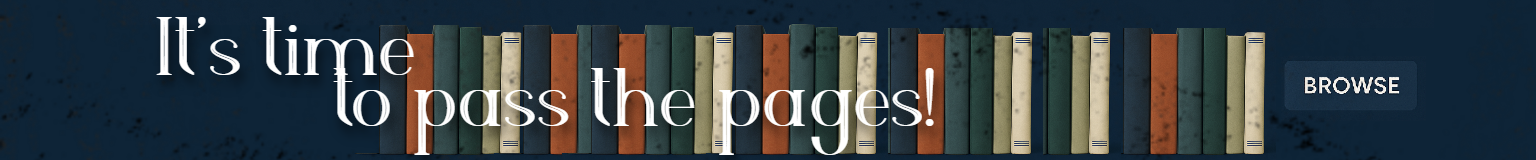
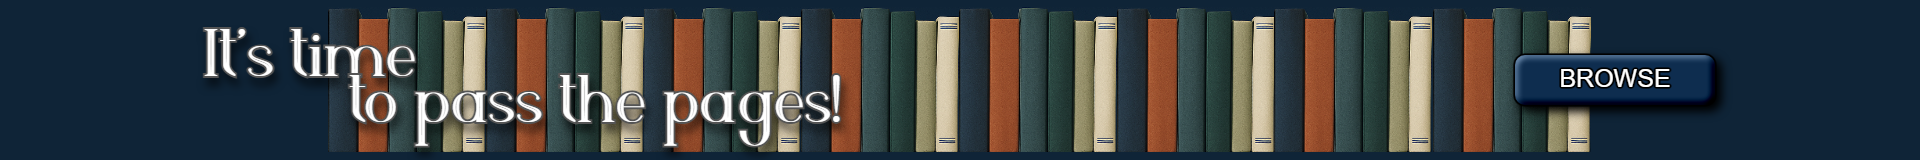
last

diff --git a/pass-the-pages-backend/server.js b/pass-the-pages-backend/server.js
@@ -107,10 +107,10 @@ app.get('/profile', verifyToken, async (req, res) => {
 // Book listing route (for authenticated users)
 app.post('/books', async (req, res) => {
     try {
-        const { title, author, course_relevance, condition, description } = req.body;
+        const { title, author, subject, condition, description } = req.body;
         const newBook = await pool.query(
-            "INSERT INTO books (title, author, course_relevance, condition, description) VALUES ($1, $2, $3, $4, $5) RETURNING *",
-            [title, author, course_relevance, condition, description]
+            "INSERT INTO books (title, author, subject, condition, description) VALUES ($1, $2, $3, $4, $5) RETURNING *",
+            [title, author, subject, condition, description]
         );
 
         // Send a success response with the added book details

diff --git a/pass-the-pages-frontend/index.html b/pass-the-pages-frontend/index.html
@@ -14,9 +14,10 @@
   <!-- Navbar Container (Loaded Dynamically) -->
   <div id="navbar-container"></div>
 
+  <div style="height: 10px; background: linear-gradient(to top, rgb(14, 45, 79),#f0f0f0);"></div>
 
   <a href="browse.html">
-    <img src="img/index_img.png" alt="browse" style="max-width:100%; margin-top: 7px;" >
+    <img src="img/index_img.png" alt="browse" style="max-width:100%; margin-top: 5px;" >
   </a>
   <div style="height: 10px; background: linear-gradient(to top,#f0f0f0, rgb(14, 45, 79));"></div>
 
